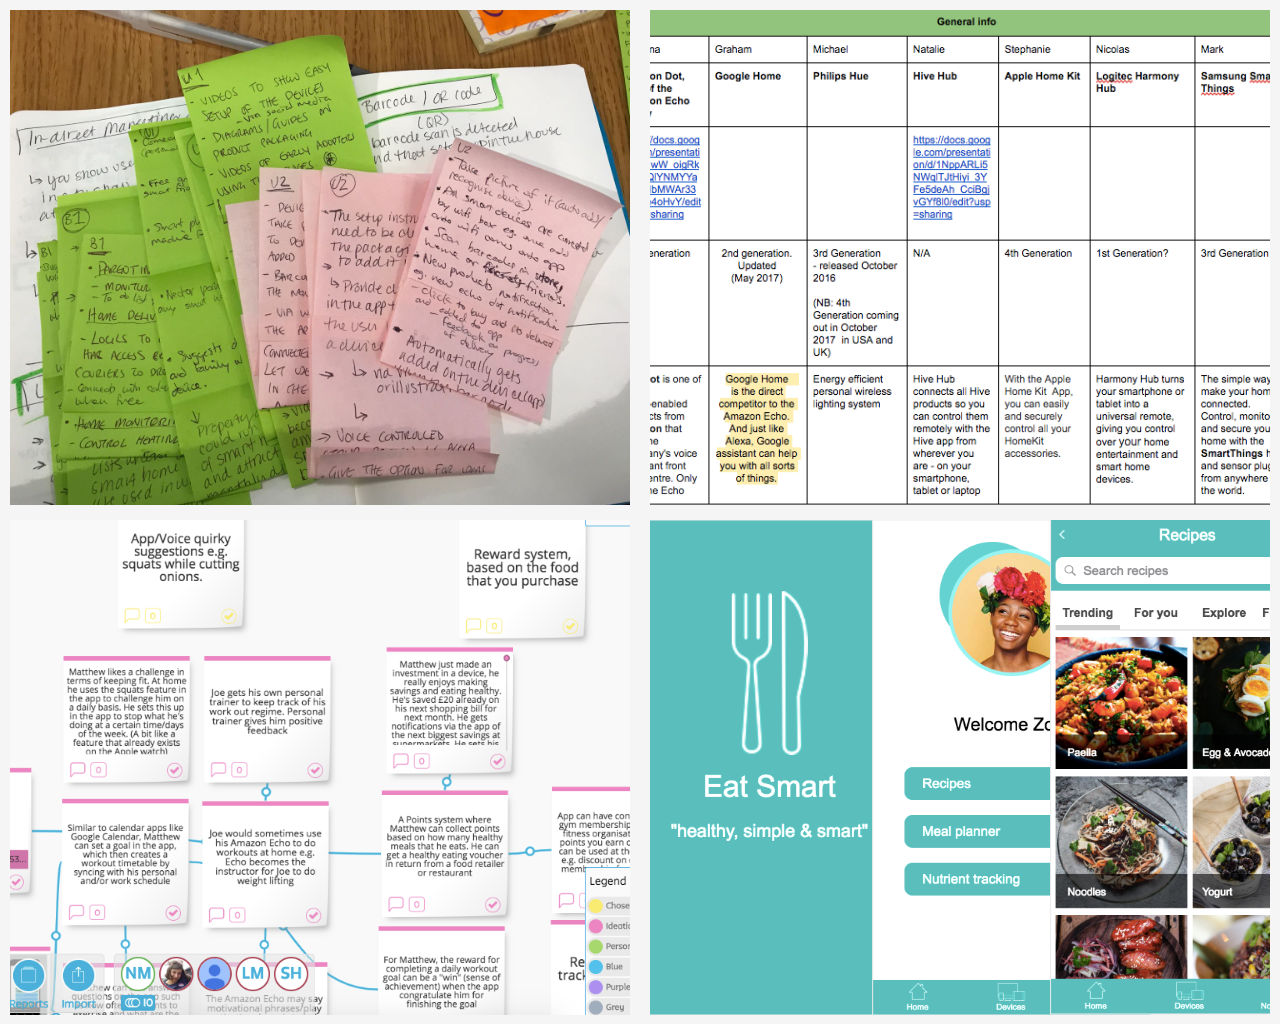
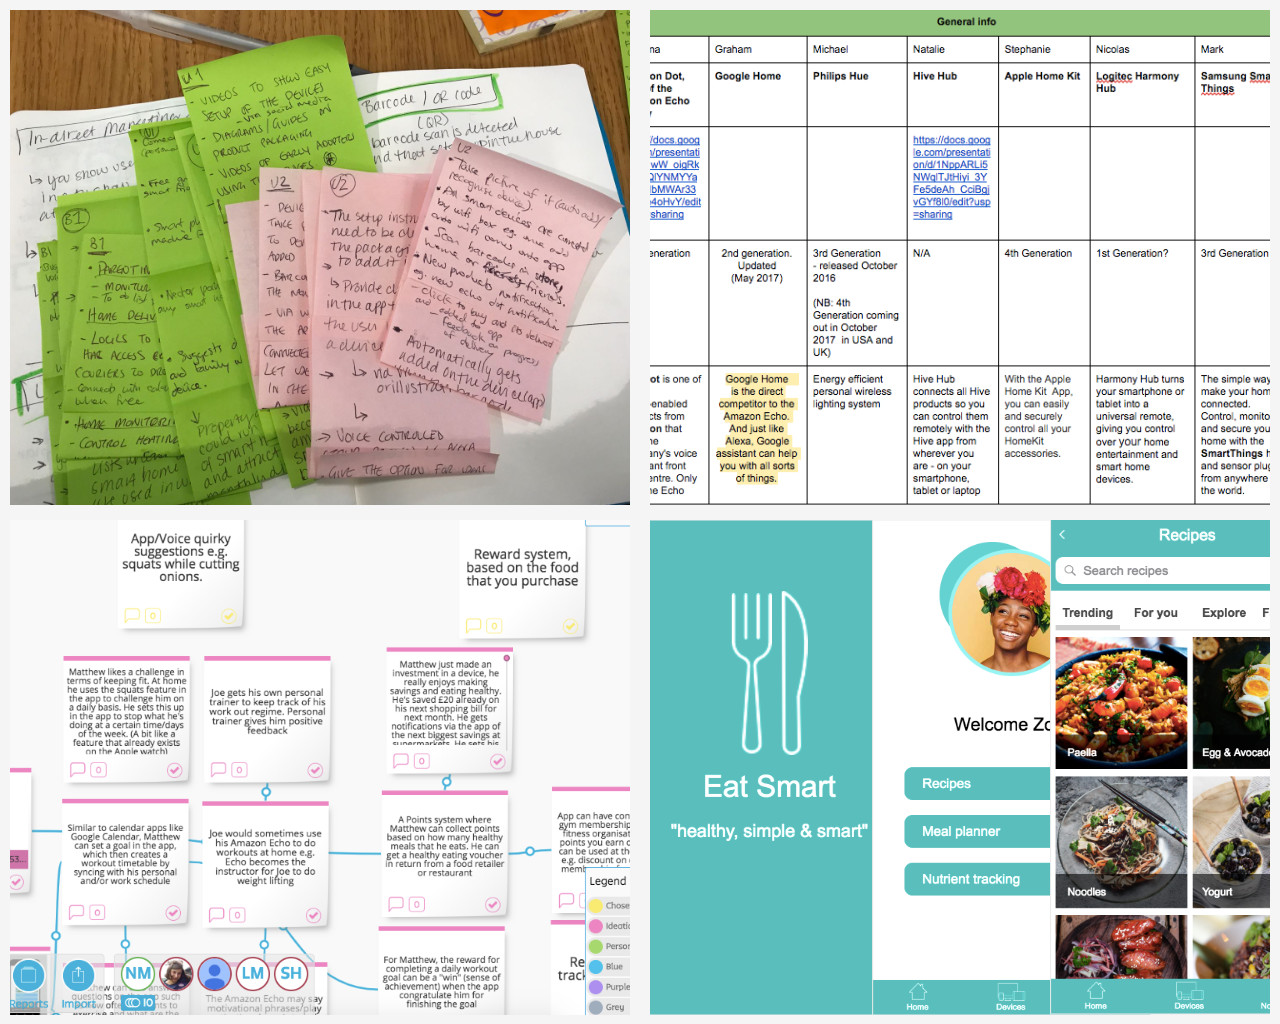
changed focal point of hero image in UX Playground project page

diff --git a/content/project/smartology/index.md b/content/project/smartology/index.md
@@ -20,7 +20,7 @@ categories = []
 
   # Focal point (optional)
   # Options: Smart, Center, TopLeft, Top, TopRight, Left, Right, BottomLeft, Bottom, BottomRight
-  focal_point = "Smart"
+  focal_point = "BottomRight"
 +++
 
 ## Overview
